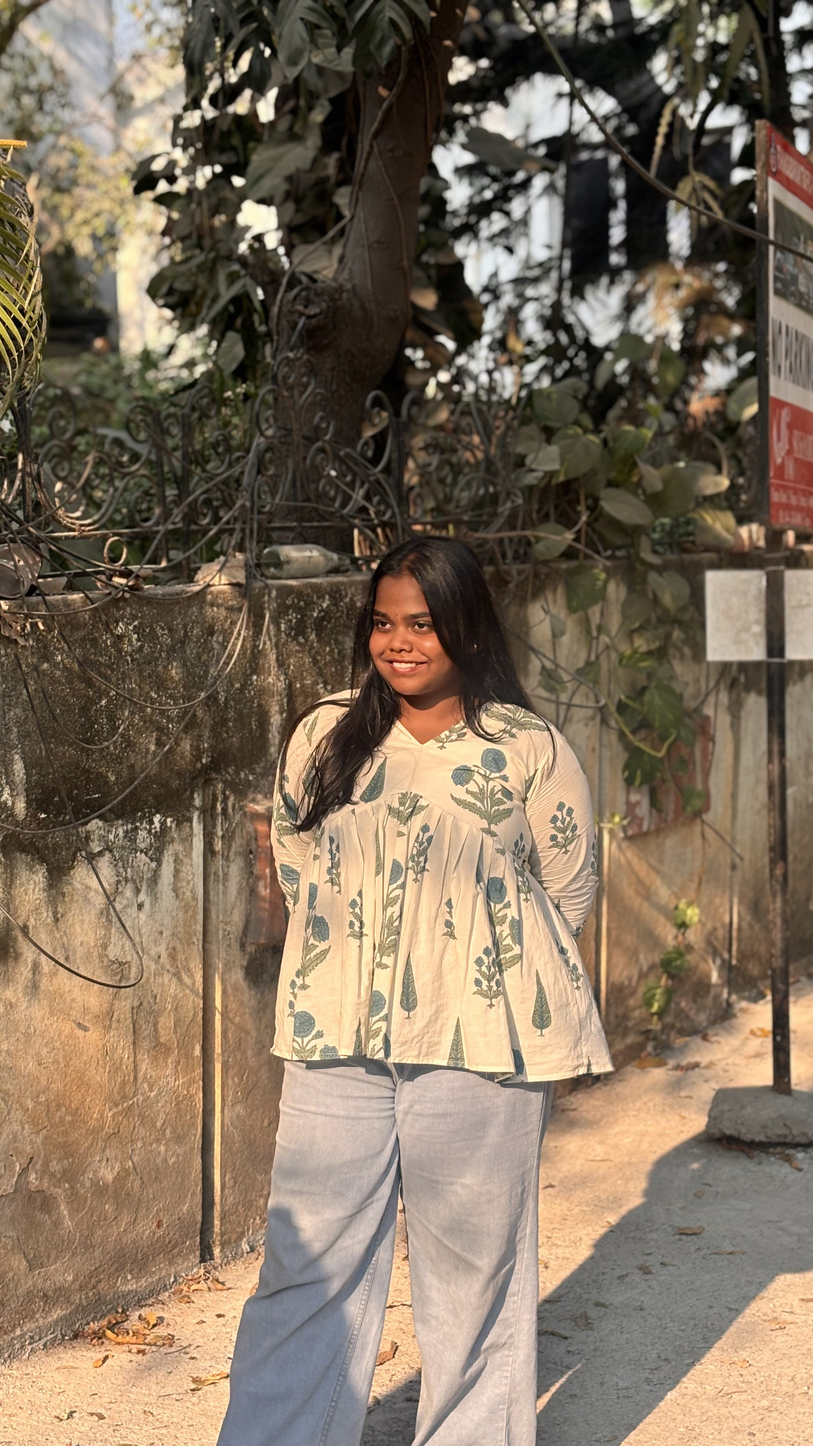
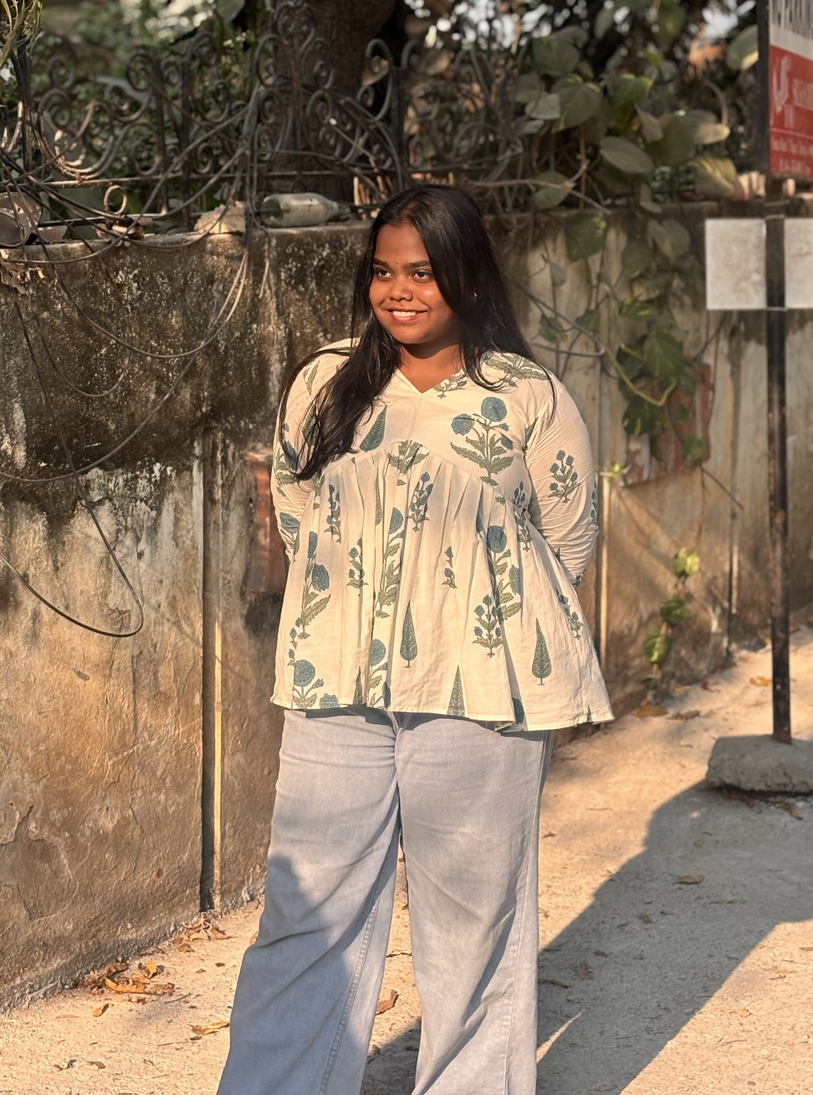
update images

diff --git a/src/components/SocialMedia.jsx b/src/components/SocialMedia.jsx
@@ -4,7 +4,7 @@ import { TrendingUp, Users, Eye, Sparkles } from 'lucide-react';
 
 const InstagramSvg = ({ size = 18, className = '' }) => (
   <svg width={size} height={size} viewBox="0 0 24 24" fill="currentColor" className={className}>
-    <path d="M12 2.163c3.204 0 3.584.012 4.85.07 3.252.148 4.771 1.691 4.919 4.919.058 1.265.069 1.645.069 4.849 0 3.205-.012 3.584-.069 4.849-.149 3.225-1.664 4.771-4.919 4.919-1.266.058-1.644.07-4.85.07-3.204 0-3.584-.012-4.849-.07-3.26-.149-4.771-1.699-4.919-4.92-.058-1.265-.07-1.644-.07-4.849 0-3.204.013-3.583.07-4.849.149-3.227 1.664-4.771 4.919-4.919 1.266-.057 1.645-.069 4.849-.069zm0-2.163c-3.259 0-3.667.014-4.947.072-4.358.2-6.78 2.618-6.98 6.98-.059 1.281-.073 1.689-.073 4.948 0 3.259.014 3.668.072 4.948.2 4.358 2.618 6.78 6.98 6.98 1.281.058 1.689.072 4.948.072 3.259 0 3.668-.014 4.948-.072 4.354-.2 6.782-2.618 6.979-6.98.059-1.28.073-1.689.073-4.948 0-3.259-.014-3.667-.072-4.947-.196-4.354-2.617-6.78-6.979-6.98-1.281-.059-1.69-.073-4.949-.073zm0 5.838c-3.403 0-6.162 2.759-6.162 6.162s2.759 6.163 6.162 6.163 6.162-2.759 6.162-6.163c0-3.403-2.759-6.162-6.162-6.162zm0 10.162c-2.209 0-4-1.79-4-4 0-2.209 1.791-4 4-4s4 1.791 4 4c0 2.21-1.791 4-4 4zm6.406-11.845c-.796 0-1.441.645-1.441 1.44s.645 1.44 1.441 1.44c.795 0 1.439-.645 1.439-1.44s-.644-1.44-1.439-1.44z"/>
+    <path d="M12 2.163c3.204 0 3.584.012 4.85.07 3.252.148 4.771 1.691 4.919 4.919.058 1.265.069 1.645.069 4.849 0 3.205-.012 3.584-.069 4.849-.149 3.225-1.664 4.771-4.919 4.919-1.266.058-1.644.07-4.85.07-3.204 0-3.584-.012-4.849-.07-3.26-.149-4.771-1.699-4.919-4.92-.058-1.265-.07-1.644-.07-4.849 0-3.204.013-3.583.07-4.849.149-3.227 1.664-4.771 4.919-4.919 1.266-.057 1.645-.069 4.849-.069zm0-2.163c-3.259 0-3.667.014-4.947.072-4.358.2-6.78 2.618-6.98 6.98-.059 1.281-.073 1.689-.073 4.948 0 3.259.014 3.668.072 4.948.2 4.358 2.618 6.78 6.98 6.98 1.281.058 1.689.072 4.948.072 3.259 0 3.668-.014 4.948-.072 4.354-.2 6.782-2.618 6.979-6.98.059-1.28.073-1.689.073-4.948 0-3.259-.014-3.667-.072-4.947-.196-4.354-2.617-6.78-6.979-6.98-1.281-.059-1.69-.073-4.949-.073zm0 5.838c-3.403 0-6.162 2.759-6.162 6.162s2.759 6.163 6.162 6.163 6.162-2.759 6.162-6.163c0-3.403-2.759-6.162-6.162-6.162zm0 10.162c-2.209 0-4-1.79-4-4 0-2.209 1.791-4 4-4s4 1.791 4 4c0 2.21-1.791 4-4 4zm6.406-11.845c-.796 0-1.441.645-1.441 1.44s.645 1.44 1.441 1.44c.795 0 1.439-.645 1.439-1.44s-.644-1.44-1.439-1.44z" />
   </svg>
 );
 
@@ -22,10 +22,11 @@ const clients = [
 ];
 
 const workImages = [
-  { src: '/images/work1.jpeg', label: 'Instagram Campaign', client: '@zerogravity' },
   { src: '/images/work2.jpeg', label: 'Content Strategy', client: '@stepwisehealth' },
-  { src: '/images/work3.jpeg', label: 'Brand Growth', client: '@drprasantharun' },
   { src: '/images/work4.jpeg', label: 'Reel Performance', client: '@assanagut' },
+  { src: '/images/work3.jpeg', label: 'Brand Growth', client: '@drprasantharun' },
+  { src: '/images/work1.jpeg', label: 'Instagram Campaign', client: '@zerogravity' },
+
 ];
 
 const SocialMedia = () => {
@@ -157,9 +158,9 @@ const SocialMedia = () => {
 
                 {/* Bottom bar — IG action icons */}
                 <div className="flex items-center gap-3 px-3 py-2 relative z-20">
-                  <svg width="12" height="12" fill="white" opacity="0.4" viewBox="0 0 24 24"><path d="M12 21.35l-1.45-1.32C5.4 15.36 2 12.28 2 8.5 2 5.42 4.42 3 7.5 3c1.74 0 3.41.81 4.5 2.09C13.09 3.81 14.76 3 16.5 3 19.58 3 22 5.42 22 8.5c0 3.78-3.4 6.86-8.55 11.54L12 21.35z"/></svg>
-                  <svg width="12" height="12" fill="none" stroke="white" opacity="0.4" strokeWidth="1.5" viewBox="0 0 24 24"><path d="M21 15a2 2 0 0 1-2 2H7l-4 4V5a2 2 0 0 1 2-2h14a2 2 0 0 1 2 2z"/></svg>
-                  <svg width="12" height="12" fill="none" stroke="white" opacity="0.4" strokeWidth="1.5" viewBox="0 0 24 24" className="ml-auto"><path d="M22 2L11 13M22 2l-7 20-4-9-9-4 20-7z"/></svg>
+                  <svg width="12" height="12" fill="white" opacity="0.4" viewBox="0 0 24 24"><path d="M12 21.35l-1.45-1.32C5.4 15.36 2 12.28 2 8.5 2 5.42 4.42 3 7.5 3c1.74 0 3.41.81 4.5 2.09C13.09 3.81 14.76 3 16.5 3 19.58 3 22 5.42 22 8.5c0 3.78-3.4 6.86-8.55 11.54L12 21.35z" /></svg>
+                  <svg width="12" height="12" fill="none" stroke="white" opacity="0.4" strokeWidth="1.5" viewBox="0 0 24 24"><path d="M21 15a2 2 0 0 1-2 2H7l-4 4V5a2 2 0 0 1 2-2h14a2 2 0 0 1 2 2z" /></svg>
+                  <svg width="12" height="12" fill="none" stroke="white" opacity="0.4" strokeWidth="1.5" viewBox="0 0 24 24" className="ml-auto"><path d="M22 2L11 13M22 2l-7 20-4-9-9-4 20-7z" /></svg>
                 </div>
 
                 {/* Home bar at bottom */}

diff --git a/src/components/About.jsx b/src/components/About.jsx
@@ -31,7 +31,7 @@ const About = () => {
                 <img
                   src="/images/about-pic.jpg"
                   alt="Sheeba Venkatesan"
-                  className="w-full h-full object-cover object-top z-0"
+                  className="w-full h-full object-cover scale-150 z-0"
                 />
                 {/* Name Tag at Bottom */}
                 <div className="absolute bottom-0 left-0 right-0 z-30 p-6">
